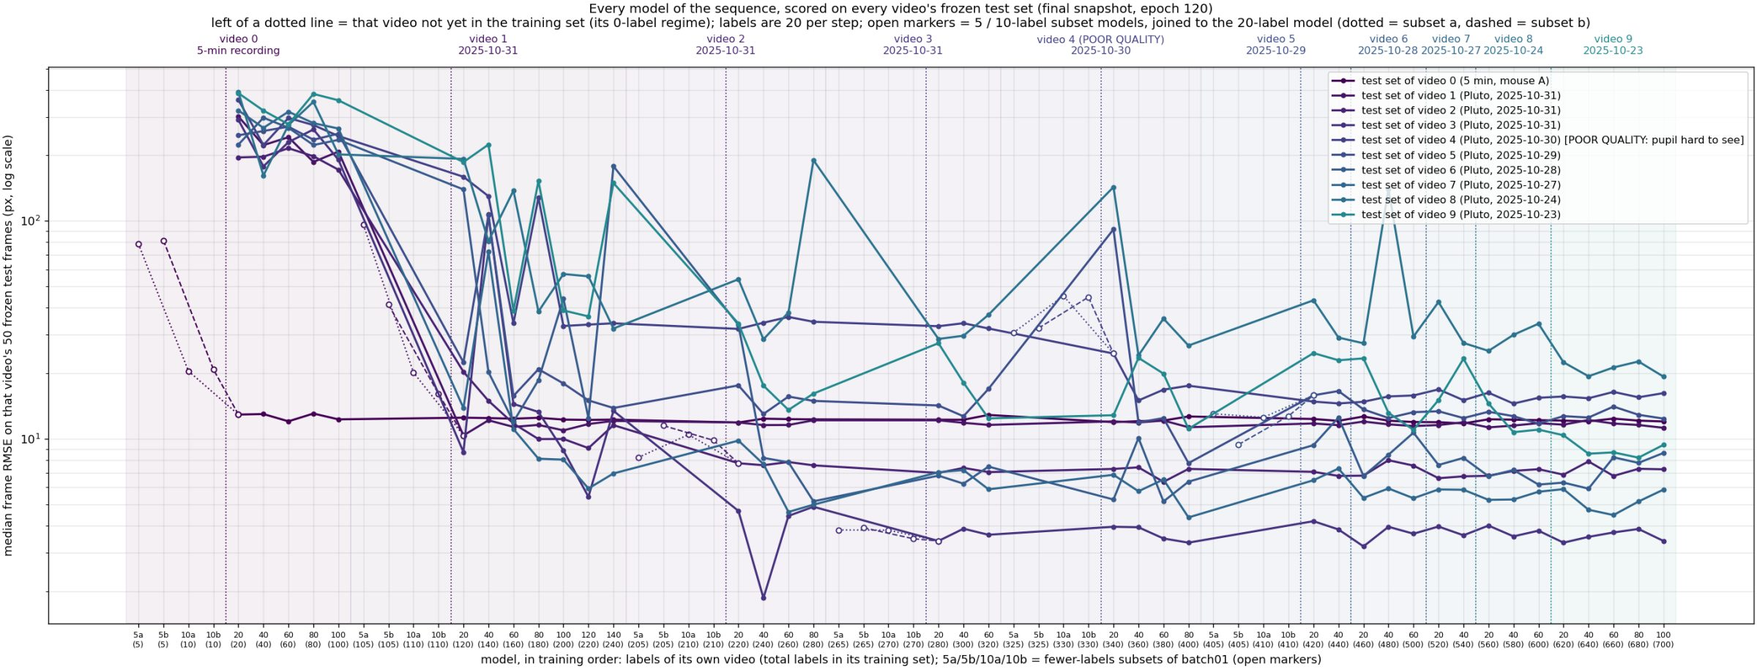
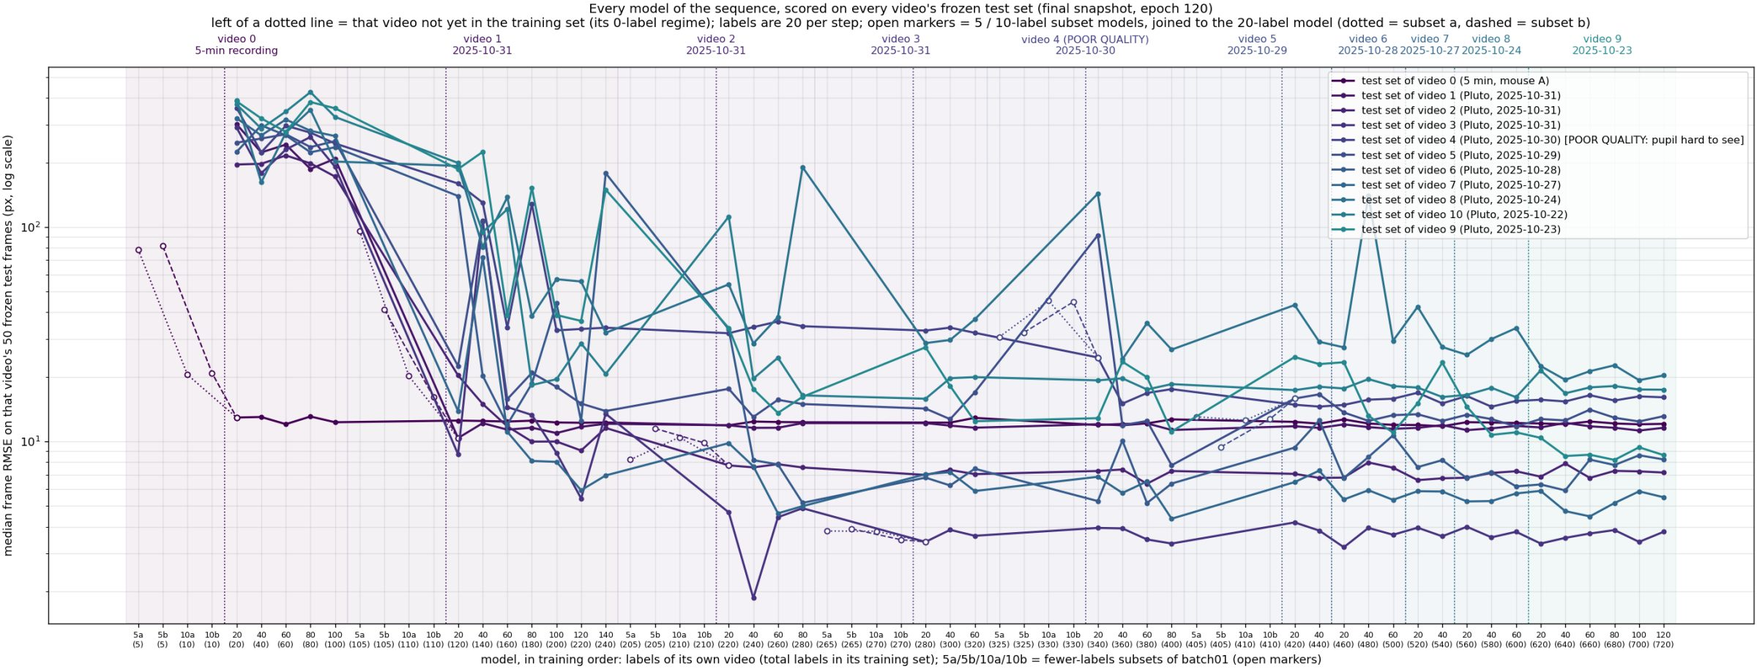
Video 10 v2 step 1: 20 labels = 11.83 px median (from 18.13 at 0 labels)
Claude-Session: https://claude.ai/code/session_017MK5SWBFFQAu8ejFk1z7fh

diff --git a/report/index.html b/report/index.html
@@ -331,7 +331,7 @@ footer{border-top:1px solid var(--rule);padding-top:18px;font-family:var(--mono)
 <section>
   <div class="sec-head"><div class="kicker">07 · <span lang="zh">新视频泛化</span><span lang="en">new-video generalization</span></div>
   <h2><span lang="zh">换一只鼠，旧模型完全失效（185 px）；标 20 帧回到 14 px，标 80 帧到 10 px</span><span lang="en">On a new mouse the old model fails outright (185 px); 20 labels bring it to 14 px, 80 labels to 10 px</span></h2></div>
-  <div class="issues"><div class="issue"><b><span lang="zh">本节是旧标注标准下的第一次新视频实验</span><span lang="en">This section is the first new-video experiment, under the old label standard</span></b><span lang="zh">训练 = 676 张旧鼠标注 + Pluto 标注。新标准下的完整实验（10 个视频）见第 09 节。</span><span lang="en">Training = 676 old-mouse labels + Pluto labels. The full experiment under the new standard (10 videos) is section 09.</span></div></div>
+  <div class="issues"><div class="issue"><b><span lang="zh">本节是旧标注标准下的第一次新视频实验</span><span lang="en">This section is the first new-video experiment, under the old label standard</span></b><span lang="zh">训练 = 676 张旧鼠标注 + Pluto 标注。新标准下的完整实验见第 09 节。</span><span lang="en">Training = 676 old-mouse labels + Pluto labels. The full experiment under the new standard is section 09.</span></div></div>
   <div class="grid2">
     <div class="panel"><h3><span lang="zh">头 20 帧解决了绝大部分问题，之后每 20 帧的收益递减</span><span lang="en">The first 20 labels do most of the work; every further 20 adds less</span></h3>
       <div class="chart" id="c-scale"></div>
@@ -480,7 +480,7 @@ CHANGELOG.md                         one row per tag
 </div>
 
 <script>
-const DATA = {"scaling": [{"n": 20, "rmse": 38.3}, {"n": 50, "rmse": 41.9}, {"n": 100, "rmse": 55.9}], "batch": [{"batch": 2, "rmse": 21.07, "val_loss": 0.01107, "conf": 375}, {"batch": 4, "rmse": 22.28, "val_loss": 0.01112, "conf": 280}, {"batch": 8, "rmse": 23.61, "val_loss": 0.01186, "conf": 131}, {"batch": 16, "rmse": 21.37, "val_loss": 0.01136, "conf": 111}], "model": [{"model": "ResNet-50", "rmse": 20.1, "val_loss": 0.01107, "conf": 514, "hours": 1.73}, {"model": "HRNet-W32", "rmse": 21.1, "val_loss": 0.01107, "conf": 375, "hours": 3.69}, {"model": "HRNet-W48", "rmse": 24.7, "val_loss": 0.01114, "conf": 99, "hours": 6.61}, {"model": "CSPNeXt-S", "rmse": 35.4, "val_loss": 0.011, "conf": 75, "hours": 0.6}, {"model": "HRNet-W18", "rmse": 47.9, "val_loss": 0.01099, "conf": 121, "hours": 2.44}], "al": {"fitting": [{"n": 80, "rmse": 16.77}, {"n": 100, "rmse": 16.52}, {"n": 120, "rmse": 17.41}, {"n": 140, "rmse": 16.88}, {"n": 160, "rmse": 17.15}, {"n": 180, "rmse": 16.89}, {"n": 200, "rmse": 17.2}, {"n": 220, "rmse": 17.08}, {"n": 240, "rmse": 17.5}, {"n": 260, "rmse": 16.85}, {"n": 280, "rmse": 16.87}, {"n": 300, "rmse": 16.97}], "jump": [{"n": 80, "rmse": 16.77}, {"n": 100, "rmse": 16.71}, {"n": 120, "rmse": 16.25}, {"n": 140, "rmse": 15.81}, {"n": 160, "rmse": 16.5}, {"n": 180, "rmse": 16.42}, {"n": 200, "rmse": 16.33}, {"n": 220, "rmse": 15.88}, {"n": 240, "rmse": 16.41}, {"n": 260, "rmse": 17.01}, {"n": 280, "rmse": 16.5}, {"n": 300, "rmse": 16.6}], "uncertain": [{"n": 80, "rmse": 16.77}, {"n": 100, "rmse": 17.54}, {"n": 120, "rmse": 17.06}, {"n": 140, "rmse": 16.71}, {"n": 160, "rmse": 16.8}, {"n": 180, "rmse": 16.39}, {"n": 200, "rmse": 16.57}, {"n": 220, "rmse": 16.57}, {"n": 240, "rmse": 16.56}, {"n": 260, "rmse": 16.54}, {"n": 280, "rmse": 16.91}, {"n": 300, "rmse": 16.62}]}, "al_range": [15.81, 17.54], "scale": [{"n": 0, "rmse": 185.18, "p90": 249.81, "fail": 88.1, "conf": 43}, {"n": 20, "rmse": 13.83, "p90": 44.6, "fail": 10.2, "conf": 62}, {"n": 40, "rmse": 12.04, "p90": 27.58, "fail": 8.5, "conf": 70}, {"n": 60, "rmse": 10.41, "p90": 97.56, "fail": 13.6, "conf": 83}, {"n": 80, "rmse": 10.12, "p90": 28.18, "fail": 5.1, "conf": 91}, {"n": 100, "rmse": 10.72, "p90": 26.06, "fail": 6.8, "conf": 87}], "scale_seed2": [{"n": 20, "rmse": 11.67, "p90": 26.32}, {"n": 40, "rmse": 11.79, "p90": 93.47}, {"n": 60, "rmse": 10.53, "p90": 46.33}], "scale_default_rule": [{"n": 20, "rmse": 12.08, "rule": "best validation mAP -> epoch 70"}, {"n": 40, "rmse": 101.74, "rule": "best validation mAP -> epoch 20 (undertrained; pupil_left fails on 53% of test frames)"}, {"n": 60, "rmse": 12.53, "rule": "best validation mAP (best-30)"}, {"n": 80, "rmse": 10.56, "rule": "best validation mAP -> epoch 50 (best-50)"}], "flagged": [{"n": 0, "pct": 77.8, "frames": 44484}, {"n": 20, "pct": 26.4, "frames": 15064}, {"n": 40, "pct": 21.4, "frames": 12254}, {"n": 60, "pct": 19.3, "frames": 11051}, {"n": 80, "pct": 15.0, "frames": 8555}], "n_test": 59, "blink_example": {"t": [231.9, 231.917, 231.933, 231.95, 231.967, 231.983, 232.0, 232.017, 232.033, 232.05, 232.067, 232.083, 232.1, 232.117, 232.133, 232.15, 232.167, 232.183, 232.2, 232.217, 232.233, 232.25, 232.267, 232.283, 232.3, 232.317, 232.333, 232.35, 232.367, 232.383, 232.4, 232.417, 232.433, 232.45, 232.467, 232.483, 232.5, 232.517, 232.533, 232.55, 232.567, 232.583, 232.6, 232.617, 232.633, 232.65, 232.667, 232.683, 232.7, 232.717, 232.733, 232.75, 232.767, 232.783, 232.8, 232.817, 232.833, 232.85, 232.867, 232.883, 232.9, 232.917, 232.933, 232.95, 232.967, 232.983, 233.0, 233.017, 233.033, 233.05, 233.067, 233.083, 233.1, 233.117, 233.133, 233.15, 233.167, 233.183, 233.2, 233.217, 233.233, 233.25, 233.267, 233.283, 233.3, 233.317, 233.333, 233.35, 233.367, 233.383, 233.4, 233.417, 233.433, 233.45, 233.467, 233.483, 233.5, 233.517, 233.533, 233.55, 233.567, 233.583, 233.6, 233.617, 233.633, 233.65, 233.667, 233.683, 233.7, 233.717, 233.733, 233.75, 233.767, 233.783, 233.8, 233.817, 233.833, 233.85, 233.867, 233.883, 233.9, 233.917, 233.933, 233.95, 233.967, 233.983, 234.0, 234.017, 234.033, 234.05, 234.067, 234.083, 234.1, 234.117, 234.133, 234.15, 234.167, 234.183, 234.2, 234.217, 234.233, 234.25, 234.267, 234.283, 234.3, 234.317, 234.333, 234.35, 234.367, 234.383, 234.4, 234.417, 234.433, 234.45, 234.467, 234.483, 234.5, 234.517, 234.533, 234.55, 234.567, 234.583, 234.6, 234.617, 234.633, 234.65, 234.667, 234.683, 234.7, 234.717, 234.733, 234.75, 234.767, 234.783, 234.8, 234.817, 234.833, 234.85, 234.867, 234.883], "raw": [69122, 68737, 69304, 68804, 67240, 67087, 63331, 61095, 59527, 59727, 59834, 59985, 61109, 61980, 62674, 62251, 62329, 62951, 62415, 61634, 61648, 61958, 62098, 63234, 62164, 61834, 61306, 61284, 61891, 63438, 61913, 61934, 62653, 62387, 62651, 63159, 63460, 62820, 63810, 63560, 63224, 63780, 63776, 63873, 64025, 64117, 63813, 65148, 65371, 64381, 64022, 64318, 64549, 64117, 63498, 63544, 63076, 64466, 63245, 63775, 64184, 63404, 64122, 64535, 64585, 63077, 64186, 63491, 62686, 60629, 60235, 59795, 63163, 61228, 60564, 60875, 58323, 56384, 56374, 56186, 54493, 54271, 52051, 46264, 42908, 40282, 38832, 39063, 35719, 36195, 36742, 35888, 35195, 35063, 37152, 43149, 43512, 48313, 50892, 53096, 53190, 53636, 55021, 55199, 55074, 56411, 56076, 57539, 56558, 57202, 56931, 58422, 59361, 59370, 59584, 58834, 59436, 59366, 60573, 59866, 60701, 60681, 60372, 60873, 61213, 61841, 61221, 61432, 62227, 61981, 61810, 61109, 62406, 62077, 62183, 62825, 62407, 63271, 65273, 64723, 63604, 63776, 64326, 64068, 63156, 63628, 63945, 62811, 63131, 63499, 62969, 64045, 63652, 63372, 63393, 63020, 63316, 63853, 63513, 63692, 63092, 63246, 62494, 63162, 63507, 63545, 63167, 63109, 63071, 63942, 63209, 63484, 63501, 62952, 62230, 62982, 63231, 62882, 63056, 62869], "filled": [69122, 68737, 69304, 68804, 67240, 67087, 63331, 61095, 59527, 59727, 59834, 59985, 61109, 61980, 62674, 62251, 62329, 62951, 62415, 61634, 61648, 61958, 62098, 63234, 62164, 61834, 61306, 61284, 61891, 63438, 61913, 61934, 62653, 62387, 62651, 63159, 63460, 62820, 63810, 63560, 63224, 63780, 63776, 63873, 64025, 64117, 63813, 65148, 65371, 64381, 64022, 64318, 64549, 64117, 63498, 63544, 63076, 64466, 63245, 63775, 64184, 63404, 64122, 64535, 64585, 63077, 64186, 63491, 62686, 60629, 60235, 60215, 60194, 60173, 60152, 60131, 60110, 60090, 60069, 60048, 60027, 60006, 59986, 59965, 59944, 59923, 59902, 59881, 59861, 59840, 59819, 59798, 59777, 59757, 59736, 59715, 59694, 59673, 59652, 59632, 59611, 59590, 59569, 59548, 59528, 59507, 59486, 59465, 59444, 59423, 59403, 59382, 59361, 59370, 59584, 58834, 59436, 59366, 60573, 59866, 60701, 60681, 60372, 60873, 61213, 61841, 61221, 61432, 62227, 61981, 61810, 61109, 62406, 62077, 62183, 62825, 62407, 62444, 62481, 62517, 62554, 62591, 62627, 62664, 62701, 62738, 62774, 62811, 63131, 63499, 62969, 64045, 63652, 63372, 63393, 63020, 63316, 63853, 63513, 63692, 63092, 63246, 62494, 63162, 63507, 63545, 63167, 63109, 63071, 63942, 63209, 63484, 63501, 62952, 62230, 62982, 63231, 62882, 63056, 62869], "open": [0.983, 0.992, 0.997, 1.009, 1.008, 0.988, 0.991, 0.98, 0.984, 0.996, 0.989, 0.996, 1.001, 1.013, 1.017, 1.02, 1.018, 1.024, 1.019, 1.024, 1.021, 1.02, 1.022, 1.013, 1.012, 1.014, 1.004, 1.01, 1.015, 1.026, 1.011, 1.027, 1.027, 1.03, 1.027, 1.031, 1.036, 1.03, 1.028, 1.029, 1.031, 1.029, 1.025, 1.031, 1.031, 1.037, 1.033, 1.03, 1.034, 1.04, 1.038, 1.042, 1.036, 1.035, 1.031, 1.033, 1.029, 1.037, 1.027, 1.03, 1.022, 1.032, 1.032, 1.029, 1.011, 1.003, 0.999, 1.002, 0.998, 0.986, 0.98, 0.979, 0.97, 0.969, 0.947, 0.936, 0.911, 0.928, 0.931, 0.927, 0.92, 0.916, 0.871, 0.839, 0.819, 0.792, 0.751, 0.752, 0.738, 0.76, 0.779, 0.677, 0.661, 0.673, 0.667, 0.706, 0.756, 0.787, 0.919, 0.89, 0.907, 0.917, 0.92, 0.929, 0.93, 0.952, 0.952, 0.95, 0.95, 0.957, 0.958, 0.968, 0.967, 0.968, 0.966, 0.972, 0.967, 0.97, 0.985, 0.981, 0.983, 0.989, 0.99, 0.99, 0.99, 0.983, 0.994, 0.988, 0.997, 0.994, 0.996, 1.003, 0.994, 0.998, 0.996, 1.001, 0.997, 0.997, 1.0, 0.999, 1.001, 0.99, 0.997, 1.009, 0.997, 1.007, 0.998, 1.004, 1.004, 0.997, 1.008, 0.999, 1.0, 0.998, 0.998, 0.999, 1.0, 1.001, 1.0, 1.004, 0.999, 0.995, 0.999, 0.996, 1.0, 1.001, 1.0, 0.997, 1.003, 0.994, 0.999, 1.001, 1.003, 1.002, 0.999, 0.999, 0.999, 1.001, 1.001, 0.999], "bad": [false, false, false, false, false, false, false, false, false, false, false, false, false, false, false, false, false, false, false, false, false, false, false, false, false, false, false, false, false, false, false, false, false, false, false, false, false, false, false, false, false, false, false, false, false, false, false, false, false, false, false, false, false, false, false, false, false, false, false, false, false, false, false, false, false, false, false, false, false, false, false, true, true, true, true, true, true, true, true, true, true, true, true, true, true, true, true, true, true, true, true, true, true, true, true, true, true, true, true, true, true, true, true, true, true, true, true, true, true, true, true, true, false, false, false, false, false, false, false, false, false, false, false, false, false, false, false, false, false, false, false, false, false, false, false, false, false, true, true, true, true, true, true, true, true, true, true, false, false, false, false, false, false, false, false, false, false, false, false, false, false, false, false, false, false, false, false, false, false, false, false, false, false, false, false, false, false, false, false, false]}, "blink_stats": {"frames": 14400, "untrusted": 1287, "runs": 86, "longest_s": 0.9}, "keypoints_px": {"pupil_top": [51.4, 27.7], "pupil_bottom": [52.5, 71.6], "pupil_left": [29.4, 40.1], "pupil_right": [74.2, 44.9], "eyelid_top": [52.2, 21.7], "eyelid_bottom": [52.5, 78.5], "eye_nasal_corner": [21.5, 35.3], "eye_temporal_corner": [79.4, 45.1]}, "blink_strip_t": [232.77, 233.43, 234.18], "videos": [{"video": 0, "unit": "0_first5minvedio", "mouse": "mouse A", "date": "5-min", "final": true, "plateau_n": 60, "plateau_px": 12.04, "zero": null, "steps": [{"n": 20, "rmse": 12.93, "p90": 23.9, "fail": 4, "conf": 69}, {"n": 40, "rmse": 13.0, "p90": 18.6, "fail": 2, "conf": 81}, {"n": 60, "rmse": 12.04, "p90": 17.0, "fail": 0, "conf": 89}, {"n": 80, "rmse": 13.07, "p90": 19.2, "fail": 2, "conf": 90}, {"n": 100, "rmse": 12.29, "p90": 17.8, "fail": 0, "conf": 93}], "subsets": [{"n": 5, "rmse": 78.53, "p90": 273.8, "fail": 70, "conf": 13, "tag": "05a"}, {"n": 5, "rmse": 81.5, "p90": 144.6, "fail": 72, "conf": 16, "tag": "05b"}, {"n": 10, "rmse": 20.48, "p90": 189.9, "fail": 14, "conf": 44, "tag": "10a"}, {"n": 10, "rmse": 20.84, "p90": 47.1, "fail": 8, "conf": 43, "tag": "10b"}], "jump": [{"n": 20, "pct": 6.8}, {"n": 40, "pct": 3.5}, {"n": 60, "pct": 2.1}, {"n": 80, "pct": 2.8}, {"n": 100, "pct": 2.1}], "labeled": 100, "carried": 100}, {"video": 1, "unit": "1_20251031_Pluto_spont_1", "mouse": "Pluto", "date": "2025-10-31", "final": true, "plateau_n": 20, "plateau_px": 10.37, "zero": 208.23, "steps": [{"n": 20, "rmse": 10.37, "p90": 21.6, "fail": 4, "conf": 59}, {"n": 40, "rmse": 12.17, "p90": 20.3, "fail": 0, "conf": 75}, {"n": 60, "rmse": 11.35, "p90": 19.7, "fail": 2, "conf": 74}, {"n": 80, "rmse": 11.59, "p90": 19.8, "fail": 0, "conf": 82}, {"n": 100, "rmse": 10.94, "p90": 19.3, "fail": 0, "conf": 89}, {"n": 120, "rmse": 11.7, "p90": 18.4, "fail": 0, "conf": 95}, {"n": 140, "rmse": 12.09, "p90": 18.7, "fail": 0, "conf": 89}], "subsets": [{"n": 5, "rmse": 96.02, "p90": 123.4, "fail": 56, "conf": 34, "tag": "05a"}, {"n": 5, "rmse": 41.38, "p90": 221.9, "fail": 48, "conf": 15, "tag": "05b"}, {"n": 10, "rmse": 20.17, "p90": 123.5, "fail": 42, "conf": 67, "tag": "10a"}, {"n": 10, "rmse": 16.12, "p90": 168.5, "fail": 34, "conf": 39, "tag": "10b"}], "jump": [{"n": 20, "pct": 21.1}, {"n": 40, "pct": 10.9}, {"n": 60, "pct": 6.2}, {"n": 80, "pct": 6.2}, {"n": 100, "pct": 5.5}, {"n": 120, "pct": 4.4}, {"n": 140, "pct": 4.6}], "labeled": 140, "carried": 100}, {"video": 2, "unit": "2_20251031_Pluto_spont_3", "mouse": "Pluto", "date": "2025-10-31", "final": true, "plateau_n": 20, "plateau_px": 7.73, "zero": 9.99, "steps": [{"n": 20, "rmse": 7.73, "p90": 26.4, "fail": 8, "conf": 85}, {"n": 40, "rmse": 7.57, "p90": 25.1, "fail": 2, "conf": 89}, {"n": 60, "rmse": 7.83, "p90": 22.8, "fail": 8, "conf": 90}, {"n": 80, "rmse": 7.56, "p90": 19.7, "fail": 2, "conf": 92}], "subsets": [{"n": 5, "rmse": 8.22, "p90": 48.0, "fail": 10, "conf": 80, "tag": "05a"}, {"n": 5, "rmse": 11.5, "p90": 96.6, "fail": 18, "conf": 81, "tag": "05b"}, {"n": 10, "rmse": 10.46, "p90": 85.2, "fail": 22, "conf": 84, "tag": "10a"}, {"n": 10, "rmse": 9.85, "p90": 78.4, "fail": 12, "conf": 86, "tag": "10b"}], "jump": [{"n": 20, "pct": 9.3}, {"n": 40, "pct": 5.8}, {"n": 60, "pct": 5.7}], "labeled": 80, "carried": 60}, {"video": 3, "unit": "3_20251031_Pluto_spont_2", "mouse": "Pluto", "date": "2025-10-31", "final": true, "plateau_n": 20, "plateau_px": 3.4, "zero": 4.43, "steps": [{"n": 20, "rmse": 3.4, "p90": 21.3, "fail": 0, "conf": 96}, {"n": 40, "rmse": 3.87, "p90": 15.8, "fail": 0, "conf": 95}, {"n": 60, "rmse": 3.63, "p90": 10.2, "fail": 0, "conf": 96}], "subsets": [{"n": 5, "rmse": 3.82, "p90": 22.9, "fail": 0, "conf": 94, "tag": "05a"}, {"n": 5, "rmse": 3.91, "p90": 15.3, "fail": 0, "conf": 92, "tag": "05b"}, {"n": 10, "rmse": 3.81, "p90": 21.7, "fail": 0, "conf": 94, "tag": "10a"}, {"n": 10, "rmse": 3.48, "p90": 22.5, "fail": 0, "conf": 92, "tag": "10b"}], "jump": [{"n": 20, "pct": 6.4}, {"n": 40, "pct": 5.8}, {"n": 60, "pct": 6.8}], "labeled": 60, "carried": 60}, {"video": 4, "unit": "4_20251030_Pluto_spont_1", "mouse": "Pluto", "date": "2025-10-30", "final": true, "plateau_n": 40, "plateau_px": 15.01, "zero": 32.11, "steps": [{"n": 20, "rmse": 24.64, "p90": 45.1, "fail": 6, "conf": 72}, {"n": 40, "rmse": 15.01, "p90": 24.1, "fail": 2, "conf": 90}, {"n": 60, "rmse": 16.82, "p90": 25.1, "fail": 2, "conf": 79}, {"n": 80, "rmse": 17.54, "p90": 44.7, "fail": 8, "conf": 86}], "subsets": [{"n": 5, "rmse": 30.74, "p90": 50.1, "fail": 10, "conf": 85, "tag": "05a"}, {"n": 5, "rmse": 32.21, "p90": 52.0, "fail": 14, "conf": 83, "tag": "05b"}, {"n": 10, "rmse": 45.31, "p90": 62.4, "fail": 42, "conf": 81, "tag": "10a"}, {"n": 10, "rmse": 44.75, "p90": 61.5, "fail": 32, "conf": 80, "tag": "10b"}], "jump": [{"n": 20, "pct": 30.9}, {"n": 40, "pct": 12.5}, {"n": 60, "pct": 14.1}], "labeled": 80, "carried": 40}, {"video": 5, "unit": "5_20251029_Pluto_spont_1", "mouse": "Pluto", "date": "2025-10-29", "final": true, "plateau_n": 20, "plateau_px": 15.85, "zero": 11.9, "steps": [{"n": 20, "rmse": 15.85, "p90": 20.2, "fail": 0, "conf": 90}, {"n": 40, "rmse": 16.58, "p90": 22.0, "fail": 0, "conf": 91}], "subsets": [{"n": 5, "rmse": 13.04, "p90": 19.9, "fail": 0, "conf": 79, "tag": "05a"}, {"n": 5, "rmse": 9.42, "p90": 13.2, "fail": 4, "conf": 78, "tag": "05b"}, {"n": 10, "rmse": 12.56, "p90": 18.1, "fail": 0, "conf": 90, "tag": "10a"}, {"n": 10, "rmse": 12.73, "p90": 19.6, "fail": 4, "conf": 80, "tag": "10b"}], "jump": [{"n": 20, "pct": 7.6}], "labeled": 40, "carried": 20}, {"video": 6, "unit": "6_20251028_Pluto_spont_1", "mouse": "Pluto", "date": "2025-10-28", "final": true, "plateau_n": 20, "plateau_px": 6.75, "zero": 9.36, "steps": [{"n": 20, "rmse": 6.75, "p90": 11.2, "fail": 0, "conf": 83}, {"n": 40, "rmse": 8.46, "p90": 11.8, "fail": 0, "conf": 90}, {"n": 60, "rmse": 10.68, "p90": 14.9, "fail": 2, "conf": 82}], "subsets": [], "jump": [{"n": 20, "pct": 11.9}, {"n": 40, "pct": 8.7}], "labeled": 60, "carried": 20}, {"video": 7, "unit": "7_20251027_Pluto_spont1", "mouse": "Pluto", "date": "2025-10-27", "final": true, "plateau_n": 0, "plateau_px": 5.36, "zero": 5.36, "steps": [{"n": 20, "rmse": 5.86, "p90": 7.6, "fail": 0, "conf": 100}, {"n": 40, "rmse": 5.84, "p90": 8.2, "fail": 0, "conf": 100}], "subsets": [], "jump": [{"n": 20, "pct": 1.6}], "labeled": 40, "carried": 0}, {"video": 8, "unit": "8_20251024_Pluto_spont1", "mouse": "Pluto", "date": "2025-10-24", "final": true, "plateau_n": 20, "plateau_px": 25.34, "zero": 27.46, "steps": [{"n": 20, "rmse": 25.34, "p90": 50.6, "fail": 14, "conf": 68}, {"n": 40, "rmse": 30.03, "p90": 50.4, "fail": 12, "conf": 89}, {"n": 60, "rmse": 33.77, "p90": 52.0, "fail": 16, "conf": 84}], "subsets": [], "jump": [{"n": 20, "pct": 17.0}, {"n": 40, "pct": 15.3}], "labeled": 60, "carried": 20}, {"video": 9, "unit": "9_20251023_Pluto1", "mouse": "Pluto", "date": "2025-10-23", "final": true, "plateau_n": 80, "plateau_px": 8.2, "zero": 23.41, "steps": [{"n": 20, "rmse": 10.39, "p90": 24.3, "fail": 8, "conf": 55}, {"n": 40, "rmse": 8.55, "p90": 19.6, "fail": 0, "conf": 86}, {"n": 60, "rmse": 8.67, "p90": 14.8, "fail": 0, "conf": 78}, {"n": 80, "rmse": 8.2, "p90": 14.8, "fail": 0, "conf": 86}, {"n": 100, "rmse": 9.39, "p90": 15.5, "fail": 0, "conf": 83}, {"n": 120, "rmse": 8.63, "p90": 15.8, "fail": 0, "conf": 90}], "subsets": [], "jump": [{"n": 20, "pct": 18.1}, {"n": 40, "pct": 11.3}, {"n": 60, "pct": 10.1}, {"n": 80, "pct": 10.7}, {"n": 100, "pct": 9.1}], "labeled": 120, "carried": 80}], "area": [{"video": "0 (mouse A)", "e3": 6.5, "e4": 2.2, "anchored": false}, {"video": "1 (10-31)", "e3": 6.7, "e4": 6.2, "anchored": false}, {"video": "2 (10-31)", "e3": 3.1, "e4": 4.4, "anchored": false}, {"video": "3 (10-31)", "e3": 12.8, "e4": 3.2, "anchored": false}, {"video": "4 (10-30, poor)", "e3": 16.9, "e4": 13.5, "anchored": false}, {"video": "5 (10-29)", "e3": 2.5, "e4": 1.9, "anchored": true}, {"video": "6 (10-28)", "e3": 9.9, "e4": 1.6, "anchored": true}, {"video": "7 (10-27)", "e3": 3.3, "e4": 0.2, "anchored": true}], "blink3": {"closed": 16, "open": 687, "auc": {"min_conf": 1.0, "open_rel": 0.94, "centre_off": 0.92, "lid_rel": 0.9, "aspect": 0.36}, "hit": 1.0, "false_alarm": 0.55}, "coupling": [0.69, 0.94], "built": "2026-10-01", "label_px": {"pupil_top": [66.7, 44.4], "pupil_bottom": [66.2, 79.4], "pupil_left": [50.1, 60.1], "pupil_right": [81.1, 63.6], "eyelid_top": [67.6, 47.1], "eyelid_bottom": [65.9, 83.7], "eye_nasal_corner": [39.4, 51.3], "eye_temporal_corner": [90.4, 65.2]}};
+const DATA = {"scaling": [{"n": 20, "rmse": 38.3}, {"n": 50, "rmse": 41.9}, {"n": 100, "rmse": 55.9}], "batch": [{"batch": 2, "rmse": 21.07, "val_loss": 0.01107, "conf": 375}, {"batch": 4, "rmse": 22.28, "val_loss": 0.01112, "conf": 280}, {"batch": 8, "rmse": 23.61, "val_loss": 0.01186, "conf": 131}, {"batch": 16, "rmse": 21.37, "val_loss": 0.01136, "conf": 111}], "model": [{"model": "ResNet-50", "rmse": 20.1, "val_loss": 0.01107, "conf": 514, "hours": 1.73}, {"model": "HRNet-W32", "rmse": 21.1, "val_loss": 0.01107, "conf": 375, "hours": 3.69}, {"model": "HRNet-W48", "rmse": 24.7, "val_loss": 0.01114, "conf": 99, "hours": 6.61}, {"model": "CSPNeXt-S", "rmse": 35.4, "val_loss": 0.011, "conf": 75, "hours": 0.6}, {"model": "HRNet-W18", "rmse": 47.9, "val_loss": 0.01099, "conf": 121, "hours": 2.44}], "al": {"fitting": [{"n": 80, "rmse": 16.77}, {"n": 100, "rmse": 16.52}, {"n": 120, "rmse": 17.41}, {"n": 140, "rmse": 16.88}, {"n": 160, "rmse": 17.15}, {"n": 180, "rmse": 16.89}, {"n": 200, "rmse": 17.2}, {"n": 220, "rmse": 17.08}, {"n": 240, "rmse": 17.5}, {"n": 260, "rmse": 16.85}, {"n": 280, "rmse": 16.87}, {"n": 300, "rmse": 16.97}], "jump": [{"n": 80, "rmse": 16.77}, {"n": 100, "rmse": 16.71}, {"n": 120, "rmse": 16.25}, {"n": 140, "rmse": 15.81}, {"n": 160, "rmse": 16.5}, {"n": 180, "rmse": 16.42}, {"n": 200, "rmse": 16.33}, {"n": 220, "rmse": 15.88}, {"n": 240, "rmse": 16.41}, {"n": 260, "rmse": 17.01}, {"n": 280, "rmse": 16.5}, {"n": 300, "rmse": 16.6}], "uncertain": [{"n": 80, "rmse": 16.77}, {"n": 100, "rmse": 17.54}, {"n": 120, "rmse": 17.06}, {"n": 140, "rmse": 16.71}, {"n": 160, "rmse": 16.8}, {"n": 180, "rmse": 16.39}, {"n": 200, "rmse": 16.57}, {"n": 220, "rmse": 16.57}, {"n": 240, "rmse": 16.56}, {"n": 260, "rmse": 16.54}, {"n": 280, "rmse": 16.91}, {"n": 300, "rmse": 16.62}]}, "al_range": [15.81, 17.54], "scale": [{"n": 0, "rmse": 185.18, "p90": 249.81, "fail": 88.1, "conf": 43}, {"n": 20, "rmse": 13.83, "p90": 44.6, "fail": 10.2, "conf": 62}, {"n": 40, "rmse": 12.04, "p90": 27.58, "fail": 8.5, "conf": 70}, {"n": 60, "rmse": 10.41, "p90": 97.56, "fail": 13.6, "conf": 83}, {"n": 80, "rmse": 10.12, "p90": 28.18, "fail": 5.1, "conf": 91}, {"n": 100, "rmse": 10.72, "p90": 26.06, "fail": 6.8, "conf": 87}], "scale_seed2": [{"n": 20, "rmse": 11.67, "p90": 26.32}, {"n": 40, "rmse": 11.79, "p90": 93.47}, {"n": 60, "rmse": 10.53, "p90": 46.33}], "scale_default_rule": [{"n": 20, "rmse": 12.08, "rule": "best validation mAP -> epoch 70"}, {"n": 40, "rmse": 101.74, "rule": "best validation mAP -> epoch 20 (undertrained; pupil_left fails on 53% of test frames)"}, {"n": 60, "rmse": 12.53, "rule": "best validation mAP (best-30)"}, {"n": 80, "rmse": 10.56, "rule": "best validation mAP -> epoch 50 (best-50)"}], "flagged": [{"n": 0, "pct": 77.8, "frames": 44484}, {"n": 20, "pct": 26.4, "frames": 15064}, {"n": 40, "pct": 21.4, "frames": 12254}, {"n": 60, "pct": 19.3, "frames": 11051}, {"n": 80, "pct": 15.0, "frames": 8555}], "n_test": 59, "blink_example": {"t": [231.9, 231.917, 231.933, 231.95, 231.967, 231.983, 232.0, 232.017, 232.033, 232.05, 232.067, 232.083, 232.1, 232.117, 232.133, 232.15, 232.167, 232.183, 232.2, 232.217, 232.233, 232.25, 232.267, 232.283, 232.3, 232.317, 232.333, 232.35, 232.367, 232.383, 232.4, 232.417, 232.433, 232.45, 232.467, 232.483, 232.5, 232.517, 232.533, 232.55, 232.567, 232.583, 232.6, 232.617, 232.633, 232.65, 232.667, 232.683, 232.7, 232.717, 232.733, 232.75, 232.767, 232.783, 232.8, 232.817, 232.833, 232.85, 232.867, 232.883, 232.9, 232.917, 232.933, 232.95, 232.967, 232.983, 233.0, 233.017, 233.033, 233.05, 233.067, 233.083, 233.1, 233.117, 233.133, 233.15, 233.167, 233.183, 233.2, 233.217, 233.233, 233.25, 233.267, 233.283, 233.3, 233.317, 233.333, 233.35, 233.367, 233.383, 233.4, 233.417, 233.433, 233.45, 233.467, 233.483, 233.5, 233.517, 233.533, 233.55, 233.567, 233.583, 233.6, 233.617, 233.633, 233.65, 233.667, 233.683, 233.7, 233.717, 233.733, 233.75, 233.767, 233.783, 233.8, 233.817, 233.833, 233.85, 233.867, 233.883, 233.9, 233.917, 233.933, 233.95, 233.967, 233.983, 234.0, 234.017, 234.033, 234.05, 234.067, 234.083, 234.1, 234.117, 234.133, 234.15, 234.167, 234.183, 234.2, 234.217, 234.233, 234.25, 234.267, 234.283, 234.3, 234.317, 234.333, 234.35, 234.367, 234.383, 234.4, 234.417, 234.433, 234.45, 234.467, 234.483, 234.5, 234.517, 234.533, 234.55, 234.567, 234.583, 234.6, 234.617, 234.633, 234.65, 234.667, 234.683, 234.7, 234.717, 234.733, 234.75, 234.767, 234.783, 234.8, 234.817, 234.833, 234.85, 234.867, 234.883], "raw": [69122, 68737, 69304, 68804, 67240, 67087, 63331, 61095, 59527, 59727, 59834, 59985, 61109, 61980, 62674, 62251, 62329, 62951, 62415, 61634, 61648, 61958, 62098, 63234, 62164, 61834, 61306, 61284, 61891, 63438, 61913, 61934, 62653, 62387, 62651, 63159, 63460, 62820, 63810, 63560, 63224, 63780, 63776, 63873, 64025, 64117, 63813, 65148, 65371, 64381, 64022, 64318, 64549, 64117, 63498, 63544, 63076, 64466, 63245, 63775, 64184, 63404, 64122, 64535, 64585, 63077, 64186, 63491, 62686, 60629, 60235, 59795, 63163, 61228, 60564, 60875, 58323, 56384, 56374, 56186, 54493, 54271, 52051, 46264, 42908, 40282, 38832, 39063, 35719, 36195, 36742, 35888, 35195, 35063, 37152, 43149, 43512, 48313, 50892, 53096, 53190, 53636, 55021, 55199, 55074, 56411, 56076, 57539, 56558, 57202, 56931, 58422, 59361, 59370, 59584, 58834, 59436, 59366, 60573, 59866, 60701, 60681, 60372, 60873, 61213, 61841, 61221, 61432, 62227, 61981, 61810, 61109, 62406, 62077, 62183, 62825, 62407, 63271, 65273, 64723, 63604, 63776, 64326, 64068, 63156, 63628, 63945, 62811, 63131, 63499, 62969, 64045, 63652, 63372, 63393, 63020, 63316, 63853, 63513, 63692, 63092, 63246, 62494, 63162, 63507, 63545, 63167, 63109, 63071, 63942, 63209, 63484, 63501, 62952, 62230, 62982, 63231, 62882, 63056, 62869], "filled": [69122, 68737, 69304, 68804, 67240, 67087, 63331, 61095, 59527, 59727, 59834, 59985, 61109, 61980, 62674, 62251, 62329, 62951, 62415, 61634, 61648, 61958, 62098, 63234, 62164, 61834, 61306, 61284, 61891, 63438, 61913, 61934, 62653, 62387, 62651, 63159, 63460, 62820, 63810, 63560, 63224, 63780, 63776, 63873, 64025, 64117, 63813, 65148, 65371, 64381, 64022, 64318, 64549, 64117, 63498, 63544, 63076, 64466, 63245, 63775, 64184, 63404, 64122, 64535, 64585, 63077, 64186, 63491, 62686, 60629, 60235, 60215, 60194, 60173, 60152, 60131, 60110, 60090, 60069, 60048, 60027, 60006, 59986, 59965, 59944, 59923, 59902, 59881, 59861, 59840, 59819, 59798, 59777, 59757, 59736, 59715, 59694, 59673, 59652, 59632, 59611, 59590, 59569, 59548, 59528, 59507, 59486, 59465, 59444, 59423, 59403, 59382, 59361, 59370, 59584, 58834, 59436, 59366, 60573, 59866, 60701, 60681, 60372, 60873, 61213, 61841, 61221, 61432, 62227, 61981, 61810, 61109, 62406, 62077, 62183, 62825, 62407, 62444, 62481, 62517, 62554, 62591, 62627, 62664, 62701, 62738, 62774, 62811, 63131, 63499, 62969, 64045, 63652, 63372, 63393, 63020, 63316, 63853, 63513, 63692, 63092, 63246, 62494, 63162, 63507, 63545, 63167, 63109, 63071, 63942, 63209, 63484, 63501, 62952, 62230, 62982, 63231, 62882, 63056, 62869], "open": [0.983, 0.992, 0.997, 1.009, 1.008, 0.988, 0.991, 0.98, 0.984, 0.996, 0.989, 0.996, 1.001, 1.013, 1.017, 1.02, 1.018, 1.024, 1.019, 1.024, 1.021, 1.02, 1.022, 1.013, 1.012, 1.014, 1.004, 1.01, 1.015, 1.026, 1.011, 1.027, 1.027, 1.03, 1.027, 1.031, 1.036, 1.03, 1.028, 1.029, 1.031, 1.029, 1.025, 1.031, 1.031, 1.037, 1.033, 1.03, 1.034, 1.04, 1.038, 1.042, 1.036, 1.035, 1.031, 1.033, 1.029, 1.037, 1.027, 1.03, 1.022, 1.032, 1.032, 1.029, 1.011, 1.003, 0.999, 1.002, 0.998, 0.986, 0.98, 0.979, 0.97, 0.969, 0.947, 0.936, 0.911, 0.928, 0.931, 0.927, 0.92, 0.916, 0.871, 0.839, 0.819, 0.792, 0.751, 0.752, 0.738, 0.76, 0.779, 0.677, 0.661, 0.673, 0.667, 0.706, 0.756, 0.787, 0.919, 0.89, 0.907, 0.917, 0.92, 0.929, 0.93, 0.952, 0.952, 0.95, 0.95, 0.957, 0.958, 0.968, 0.967, 0.968, 0.966, 0.972, 0.967, 0.97, 0.985, 0.981, 0.983, 0.989, 0.99, 0.99, 0.99, 0.983, 0.994, 0.988, 0.997, 0.994, 0.996, 1.003, 0.994, 0.998, 0.996, 1.001, 0.997, 0.997, 1.0, 0.999, 1.001, 0.99, 0.997, 1.009, 0.997, 1.007, 0.998, 1.004, 1.004, 0.997, 1.008, 0.999, 1.0, 0.998, 0.998, 0.999, 1.0, 1.001, 1.0, 1.004, 0.999, 0.995, 0.999, 0.996, 1.0, 1.001, 1.0, 0.997, 1.003, 0.994, 0.999, 1.001, 1.003, 1.002, 0.999, 0.999, 0.999, 1.001, 1.001, 0.999], "bad": [false, false, false, false, false, false, false, false, false, false, false, false, false, false, false, false, false, false, false, false, false, false, false, false, false, false, false, false, false, false, false, false, false, false, false, false, false, false, false, false, false, false, false, false, false, false, false, false, false, false, false, false, false, false, false, false, false, false, false, false, false, false, false, false, false, false, false, false, false, false, false, true, true, true, true, true, true, true, true, true, true, true, true, true, true, true, true, true, true, true, true, true, true, true, true, true, true, true, true, true, true, true, true, true, true, true, true, true, true, true, true, true, false, false, false, false, false, false, false, false, false, false, false, false, false, false, false, false, false, false, false, false, false, false, false, false, false, true, true, true, true, true, true, true, true, true, true, false, false, false, false, false, false, false, false, false, false, false, false, false, false, false, false, false, false, false, false, false, false, false, false, false, false, false, false, false, false, false, false, false]}, "blink_stats": {"frames": 14400, "untrusted": 1287, "runs": 86, "longest_s": 0.9}, "keypoints_px": {"pupil_top": [51.4, 27.7], "pupil_bottom": [52.5, 71.6], "pupil_left": [29.4, 40.1], "pupil_right": [74.2, 44.9], "eyelid_top": [52.2, 21.7], "eyelid_bottom": [52.5, 78.5], "eye_nasal_corner": [21.5, 35.3], "eye_temporal_corner": [79.4, 45.1]}, "blink_strip_t": [232.77, 233.43, 234.18], "videos": [{"video": 0, "unit": "0_first5minvedio", "mouse": "mouse A", "date": "5-min", "final": true, "plateau_n": 60, "plateau_px": 12.04, "zero": null, "steps": [{"n": 20, "rmse": 12.93, "p90": 23.9, "fail": 4, "conf": 69}, {"n": 40, "rmse": 13.0, "p90": 18.6, "fail": 2, "conf": 81}, {"n": 60, "rmse": 12.04, "p90": 17.0, "fail": 0, "conf": 89}, {"n": 80, "rmse": 13.07, "p90": 19.2, "fail": 2, "conf": 90}, {"n": 100, "rmse": 12.29, "p90": 17.8, "fail": 0, "conf": 93}], "subsets": [{"n": 5, "rmse": 78.53, "p90": 273.8, "fail": 70, "conf": 13, "tag": "05a"}, {"n": 5, "rmse": 81.5, "p90": 144.6, "fail": 72, "conf": 16, "tag": "05b"}, {"n": 10, "rmse": 20.48, "p90": 189.9, "fail": 14, "conf": 44, "tag": "10a"}, {"n": 10, "rmse": 20.84, "p90": 47.1, "fail": 8, "conf": 43, "tag": "10b"}], "jump": [{"n": 20, "pct": 6.8}, {"n": 40, "pct": 3.5}, {"n": 60, "pct": 2.1}, {"n": 80, "pct": 2.8}, {"n": 100, "pct": 2.1}], "labeled": 100, "carried": 100}, {"video": 1, "unit": "1_20251031_Pluto_spont_1", "mouse": "Pluto", "date": "2025-10-31", "final": true, "plateau_n": 20, "plateau_px": 10.37, "zero": 208.23, "steps": [{"n": 20, "rmse": 10.37, "p90": 21.6, "fail": 4, "conf": 59}, {"n": 40, "rmse": 12.17, "p90": 20.3, "fail": 0, "conf": 75}, {"n": 60, "rmse": 11.35, "p90": 19.7, "fail": 2, "conf": 74}, {"n": 80, "rmse": 11.59, "p90": 19.8, "fail": 0, "conf": 82}, {"n": 100, "rmse": 10.94, "p90": 19.3, "fail": 0, "conf": 89}, {"n": 120, "rmse": 11.7, "p90": 18.4, "fail": 0, "conf": 95}, {"n": 140, "rmse": 12.09, "p90": 18.7, "fail": 0, "conf": 89}], "subsets": [{"n": 5, "rmse": 96.02, "p90": 123.4, "fail": 56, "conf": 34, "tag": "05a"}, {"n": 5, "rmse": 41.38, "p90": 221.9, "fail": 48, "conf": 15, "tag": "05b"}, {"n": 10, "rmse": 20.17, "p90": 123.5, "fail": 42, "conf": 67, "tag": "10a"}, {"n": 10, "rmse": 16.12, "p90": 168.5, "fail": 34, "conf": 39, "tag": "10b"}], "jump": [{"n": 20, "pct": 21.1}, {"n": 40, "pct": 10.9}, {"n": 60, "pct": 6.2}, {"n": 80, "pct": 6.2}, {"n": 100, "pct": 5.5}, {"n": 120, "pct": 4.4}, {"n": 140, "pct": 4.6}], "labeled": 140, "carried": 100}, {"video": 2, "unit": "2_20251031_Pluto_spont_3", "mouse": "Pluto", "date": "2025-10-31", "final": true, "plateau_n": 20, "plateau_px": 7.73, "zero": 9.99, "steps": [{"n": 20, "rmse": 7.73, "p90": 26.4, "fail": 8, "conf": 85}, {"n": 40, "rmse": 7.57, "p90": 25.1, "fail": 2, "conf": 89}, {"n": 60, "rmse": 7.83, "p90": 22.8, "fail": 8, "conf": 90}, {"n": 80, "rmse": 7.56, "p90": 19.7, "fail": 2, "conf": 92}], "subsets": [{"n": 5, "rmse": 8.22, "p90": 48.0, "fail": 10, "conf": 80, "tag": "05a"}, {"n": 5, "rmse": 11.5, "p90": 96.6, "fail": 18, "conf": 81, "tag": "05b"}, {"n": 10, "rmse": 10.46, "p90": 85.2, "fail": 22, "conf": 84, "tag": "10a"}, {"n": 10, "rmse": 9.85, "p90": 78.4, "fail": 12, "conf": 86, "tag": "10b"}], "jump": [{"n": 20, "pct": 9.3}, {"n": 40, "pct": 5.8}, {"n": 60, "pct": 5.7}], "labeled": 80, "carried": 60}, {"video": 3, "unit": "3_20251031_Pluto_spont_2", "mouse": "Pluto", "date": "2025-10-31", "final": true, "plateau_n": 20, "plateau_px": 3.4, "zero": 4.43, "steps": [{"n": 20, "rmse": 3.4, "p90": 21.3, "fail": 0, "conf": 96}, {"n": 40, "rmse": 3.87, "p90": 15.8, "fail": 0, "conf": 95}, {"n": 60, "rmse": 3.63, "p90": 10.2, "fail": 0, "conf": 96}], "subsets": [{"n": 5, "rmse": 3.82, "p90": 22.9, "fail": 0, "conf": 94, "tag": "05a"}, {"n": 5, "rmse": 3.91, "p90": 15.3, "fail": 0, "conf": 92, "tag": "05b"}, {"n": 10, "rmse": 3.81, "p90": 21.7, "fail": 0, "conf": 94, "tag": "10a"}, {"n": 10, "rmse": 3.48, "p90": 22.5, "fail": 0, "conf": 92, "tag": "10b"}], "jump": [{"n": 20, "pct": 6.4}, {"n": 40, "pct": 5.8}, {"n": 60, "pct": 6.8}], "labeled": 60, "carried": 60}, {"video": 4, "unit": "4_20251030_Pluto_spont_1", "mouse": "Pluto", "date": "2025-10-30", "final": true, "plateau_n": 40, "plateau_px": 15.01, "zero": 32.11, "steps": [{"n": 20, "rmse": 24.64, "p90": 45.1, "fail": 6, "conf": 72}, {"n": 40, "rmse": 15.01, "p90": 24.1, "fail": 2, "conf": 90}, {"n": 60, "rmse": 16.82, "p90": 25.1, "fail": 2, "conf": 79}, {"n": 80, "rmse": 17.54, "p90": 44.7, "fail": 8, "conf": 86}], "subsets": [{"n": 5, "rmse": 30.74, "p90": 50.1, "fail": 10, "conf": 85, "tag": "05a"}, {"n": 5, "rmse": 32.21, "p90": 52.0, "fail": 14, "conf": 83, "tag": "05b"}, {"n": 10, "rmse": 45.31, "p90": 62.4, "fail": 42, "conf": 81, "tag": "10a"}, {"n": 10, "rmse": 44.75, "p90": 61.5, "fail": 32, "conf": 80, "tag": "10b"}], "jump": [{"n": 20, "pct": 30.9}, {"n": 40, "pct": 12.5}, {"n": 60, "pct": 14.1}], "labeled": 80, "carried": 40}, {"video": 5, "unit": "5_20251029_Pluto_spont_1", "mouse": "Pluto", "date": "2025-10-29", "final": true, "plateau_n": 20, "plateau_px": 15.85, "zero": 11.9, "steps": [{"n": 20, "rmse": 15.85, "p90": 20.2, "fail": 0, "conf": 90}, {"n": 40, "rmse": 16.58, "p90": 22.0, "fail": 0, "conf": 91}], "subsets": [{"n": 5, "rmse": 13.04, "p90": 19.9, "fail": 0, "conf": 79, "tag": "05a"}, {"n": 5, "rmse": 9.42, "p90": 13.2, "fail": 4, "conf": 78, "tag": "05b"}, {"n": 10, "rmse": 12.56, "p90": 18.1, "fail": 0, "conf": 90, "tag": "10a"}, {"n": 10, "rmse": 12.73, "p90": 19.6, "fail": 4, "conf": 80, "tag": "10b"}], "jump": [{"n": 20, "pct": 7.6}], "labeled": 40, "carried": 20}, {"video": 6, "unit": "6_20251028_Pluto_spont_1", "mouse": "Pluto", "date": "2025-10-28", "final": true, "plateau_n": 20, "plateau_px": 6.75, "zero": 9.36, "steps": [{"n": 20, "rmse": 6.75, "p90": 11.2, "fail": 0, "conf": 83}, {"n": 40, "rmse": 8.46, "p90": 11.8, "fail": 0, "conf": 90}, {"n": 60, "rmse": 10.68, "p90": 14.9, "fail": 2, "conf": 82}], "subsets": [], "jump": [{"n": 20, "pct": 11.9}, {"n": 40, "pct": 8.7}], "labeled": 60, "carried": 20}, {"video": 7, "unit": "7_20251027_Pluto_spont1", "mouse": "Pluto", "date": "2025-10-27", "final": true, "plateau_n": 0, "plateau_px": 5.36, "zero": 5.36, "steps": [{"n": 20, "rmse": 5.86, "p90": 7.6, "fail": 0, "conf": 100}, {"n": 40, "rmse": 5.84, "p90": 8.2, "fail": 0, "conf": 100}], "subsets": [], "jump": [{"n": 20, "pct": 1.6}], "labeled": 40, "carried": 0}, {"video": 8, "unit": "8_20251024_Pluto_spont1", "mouse": "Pluto", "date": "2025-10-24", "final": true, "plateau_n": 20, "plateau_px": 25.34, "zero": 27.46, "steps": [{"n": 20, "rmse": 25.34, "p90": 50.6, "fail": 14, "conf": 68}, {"n": 40, "rmse": 30.03, "p90": 50.4, "fail": 12, "conf": 89}, {"n": 60, "rmse": 33.77, "p90": 52.0, "fail": 16, "conf": 84}], "subsets": [], "jump": [{"n": 20, "pct": 17.0}, {"n": 40, "pct": 15.3}], "labeled": 60, "carried": 20}, {"video": 9, "unit": "9_20251023_Pluto1", "mouse": "Pluto", "date": "2025-10-23", "final": true, "plateau_n": 80, "plateau_px": 8.2, "zero": 23.41, "steps": [{"n": 20, "rmse": 10.39, "p90": 24.3, "fail": 8, "conf": 55}, {"n": 40, "rmse": 8.55, "p90": 19.6, "fail": 0, "conf": 86}, {"n": 60, "rmse": 8.67, "p90": 14.8, "fail": 0, "conf": 78}, {"n": 80, "rmse": 8.2, "p90": 14.8, "fail": 0, "conf": 86}, {"n": 100, "rmse": 9.39, "p90": 15.5, "fail": 0, "conf": 83}, {"n": 120, "rmse": 8.63, "p90": 15.8, "fail": 0, "conf": 90}], "subsets": [], "jump": [{"n": 20, "pct": 18.1}, {"n": 40, "pct": 11.3}, {"n": 60, "pct": 10.1}, {"n": 80, "pct": 10.7}, {"n": 100, "pct": 9.1}, {"n": 120, "pct": 8.3}], "labeled": 120, "carried": 80}, {"video": 10, "unit": "10_20251022_Pluto1", "mouse": "Pluto", "date": "2025-10-22", "final": false, "plateau_n": 20, "plateau_px": 11.83, "zero": 18.13, "steps": [{"n": 20, "rmse": 11.83, "p90": 27.7, "fail": 2, "conf": 72}], "subsets": [], "jump": [], "labeled": 20, "carried": null}], "area": [{"video": "0 (mouse A)", "e3": 6.5, "e4": 2.2, "anchored": false}, {"video": "1 (10-31)", "e3": 6.7, "e4": 6.2, "anchored": false}, {"video": "2 (10-31)", "e3": 3.1, "e4": 4.4, "anchored": false}, {"video": "3 (10-31)", "e3": 12.8, "e4": 3.2, "anchored": false}, {"video": "4 (10-30, poor)", "e3": 16.9, "e4": 13.5, "anchored": false}, {"video": "5 (10-29)", "e3": 2.5, "e4": 1.9, "anchored": true}, {"video": "6 (10-28)", "e3": 9.9, "e4": 1.6, "anchored": true}, {"video": "7 (10-27)", "e3": 3.3, "e4": 0.2, "anchored": true}], "blink3": {"closed": 16, "open": 687, "auc": {"min_conf": 1.0, "open_rel": 0.94, "centre_off": 0.92, "lid_rel": 0.9, "aspect": 0.36}, "hit": 1.0, "false_alarm": 0.55}, "coupling": [0.69, 0.94], "built": "2026-10-01", "label_px": {"pupil_top": [66.7, 44.4], "pupil_bottom": [66.2, 79.4], "pupil_left": [50.1, 60.1], "pupil_right": [81.1, 63.6], "eyelid_top": [67.6, 47.1], "eyelid_bottom": [65.9, 83.7], "eye_nasal_corner": [39.4, 51.3], "eye_temporal_corner": [90.4, 65.2]}};
 (function(){
   var root=document.documentElement, L='zh';
   try{var s=localStorage.getItem('report-lang'); if(s==='en'||s==='zh') L=s;}catch(e){}

diff --git a/report/template.html b/report/template.html
@@ -331,7 +331,7 @@ footer{border-top:1px solid var(--rule);padding-top:18px;font-family:var(--mono)
 <section>
   <div class="sec-head"><div class="kicker">07 · <span lang="zh">新视频泛化</span><span lang="en">new-video generalization</span></div>
   <h2><span lang="zh">换一只鼠，旧模型完全失效（185 px）；标 20 帧回到 14 px，标 80 帧到 10 px</span><span lang="en">On a new mouse the old model fails outright (185 px); 20 labels bring it to 14 px, 80 labels to 10 px</span></h2></div>
-  <div class="issues"><div class="issue"><b><span lang="zh">本节是旧标注标准下的第一次新视频实验</span><span lang="en">This section is the first new-video experiment, under the old label standard</span></b><span lang="zh">训练 = 676 张旧鼠标注 + Pluto 标注。新标准下的完整实验（10 个视频）见第 09 节。</span><span lang="en">Training = 676 old-mouse labels + Pluto labels. The full experiment under the new standard (10 videos) is section 09.</span></div></div>
+  <div class="issues"><div class="issue"><b><span lang="zh">本节是旧标注标准下的第一次新视频实验</span><span lang="en">This section is the first new-video experiment, under the old label standard</span></b><span lang="zh">训练 = 676 张旧鼠标注 + Pluto 标注。新标准下的完整实验见第 09 节。</span><span lang="en">Training = 676 old-mouse labels + Pluto labels. The full experiment under the new standard is section 09.</span></div></div>
   <div class="grid2">
     <div class="panel"><h3><span lang="zh">头 20 帧解决了绝大部分问题，之后每 20 帧的收益递减</span><span lang="en">The first 20 labels do most of the work; every further 20 adds less</span></h3>
       <div class="chart" id="c-scale"></div>

diff --git a/README.md b/README.md
@@ -8,7 +8,7 @@ how many human labels are needed, and how few frames must a person correct, befo
 Zhiheng Li (University of Minnesota), with Kaiwen Sheng (Stanford). Raw videos, frames, labels, model weights and
 per-frame predictions stay local; git carries code, documentation and audited aggregate results.
 
-## Status (last updated 2026-10-01 21:30 CDT)
+## Status (last updated 2026-10-01 22:55 CDT)
 
 | what | state |
 |---|---|
@@ -23,7 +23,7 @@ per-frame predictions stay local; git carries code, documentation and audited ag
 | Finished | **video 8** (Pluto, 2025-10-24, v2 line): test set relabeled under v2 and frozen; 0 labels (video-6 model 711) = 27.46 px, 20 labels = 25.34 px, 40 labels = 30.03 px (p90 ~50, 12-14% of frames > 50 px - a hard day, 3 days after video 7); 60 labels = 33.77 px: finished at **20 labels, 25.34 px** (rule fired at 60; 12-16% of frames > 50 px at every step - this day is hard). |
 | Finished | **video 9** (Pluto, 2025-10-23, v2 line): test50 / val20 / batch01 labeled from model-711 pre-labels; 0 labels (model 711) = 23.41 px, 20 labels = 10.39 px, 40 labels = 8.55 px, 60 labels = 8.67 px (p90 14.8; no gain on the median), 80 labels = 8.20 px (p90 14.8; 4.1% better than 8.55), 100 labels = 9.39 px (p90 15.5), 120 labels = 8.63 px (p90 15.8): the plateau rule fired at 120 (two steps without a gain on 8.20), finished at **80 labels, 8.20 px** (user decision 2026-10-01). Cross-video curves now also show the 5 / 10-label subset models (open markers) |
 | Blink / area analysis | per-video time series in `<video>/results/blink_area_analysis/`; across videos (`v2_new_pupil_top_video_scaling/results/blink_area_consistency.png`): 4-point area better on 7 of 8 test sets; lowest pupil confidence < ~0.2 separates all 16 human closed-eye frames (the production 0.6 cut flags ~half of open frames); area correlates with eye opening in every video |
-| In progress | **video 10** (Pluto, 2025-10-22, the last Pluto video of the sequence): test50 / val20 / batch01 pre-labeled with the video-9 80-label model (1014) and corrected by the labeler (test50: 234 of 400 points moved), test set frozen; 0 labels (model 1014) = 18.13 px (p90 32.0, 8% of frames > 50 px); step 1 (20 labels + 500 carried labels) training |
+| In progress | **video 10** (Pluto, 2025-10-22, the last Pluto video of the sequence): test50 / val20 / batch01 pre-labeled with the video-9 80-label model (1014) and corrected by the labeler (test50: 234 of 400 points moved), test set frozen; 0 labels (model 1014) = 18.13 px (p90 32.0, 8% of frames > 50 px), 20 labels = 11.83 px (p90 27.7, 2% > 50 px); batch02 being selected |
 | Next | Terra (mouse C), units 11-18, one recording day each, newest first |
 
 ## Main results so far (era 3, `v2_new_pupil_top_video_scaling/`)
@@ -42,7 +42,7 @@ Labels needed per video (plateau = two consecutive 20-label steps that improve t
 | 7 | Pluto, 2025-10-27 | 400 | 5.36 / 5.86 / 5.84 px (v2) | 0 labels, 5.36 px (rule fired at 40) |
 | 8 | Pluto, 2025-10-24 | 400 | 27.46 / 25.34 / 30.03 / 33.77 px (v2) | 20 labels, 25.3 px (rule fired at 60) |
 | 9 | Pluto, 2025-10-23 | 420 | 23.41 / 10.39 / 8.55 / 8.67 / 8.20 / 9.39 px, 120 labels: 8.63 px (v2) | 80 labels, 8.2 px (rule fired at 120) |
-| 10 | Pluto, 2025-10-22 | 500 | 18.13 px (v2, in progress) | – |
+| 10 | Pluto, 2025-10-22 | 500 | 18.13 / 11.83 px (v2, in progress) | – |
 
 What the numbers say:
 

diff --git a/v2_new_pupil_top_video_scaling/results/README.md b/v2_new_pupil_top_video_scaling/results/README.md
@@ -22,7 +22,7 @@ snapshot with the best validation mAP after the first learning-rate drop (epochs
 | 7 `7_20251027_Pluto_spont1` | mouse B, 19.9 min, 2025-10-27 | 400 (videos 0-3 + 40 of video 4 + 20 of video 5 + 20 of video 6) | convention v2: 5.36 / 5.86 / 5.84 | **0 labels** (rule fired at 40; user decision 2026-09-29) | 5.36 px |
 | 8 `8_20251024_Pluto_spont1` | mouse B, 19.9 min, 2025-10-24 | 400 (videos 0-3 + 40 of video 4 + 20 of video 5 + 20 of video 6) | convention v2: 27.46 / 25.34 / 30.03 / 33.77 | **20 labels** (rule fired at 60; user decision 2026-09-30) | 25.34 px |
 | 9 `9_20251023_Pluto1` | mouse B, 19.9 min, 2025-10-23 | 420 (videos 0-3 + 40 of video 4 + 20 each of videos 5, 6, 8) | convention v2: 23.41 / 10.39 / 8.55 / 8.67 / 8.20 / 9.39 / 8.63 (120 labels) | **80 labels** (rule fired at 120; user decision 2026-10-01) | 8.20 px |
-| 10 `10_20251022_Pluto1` | mouse B, 19.9 min, 2025-10-22 | 500 (videos 0-3 + 40 of video 4 + 20 each of videos 5, 6, 8 + 80 of video 9) | convention v2: 18.13 | in progress (step 1 training) | – |
+| 10 `10_20251022_Pluto1` | mouse B, 19.9 min, 2025-10-22 | 500 (videos 0-3 + 40 of video 4 + 20 each of videos 5, 6, 8 + 80 of video 9) | convention v2: 18.13 / 11.83 | in progress (step 1 improved the 0-label score by 35%; step 2 next) | – |
 
 `labels_to_plateau.png` / `labels_to_plateau.csv` (2026-09-30): the plateau point of every video in the sequence as one figure - labels needed (left) and the error at the plateau vs the 0-label error (right); `scripts/plot_labels_to_plateau.py`. The csv is the table above in machine-readable form and is updated when a video finishes.
 

diff --git a/v2_new_pupil_top_video_scaling/10_20251022_Pluto1/results/README.md b/v2_new_pupil_top_video_scaling/10_20251022_Pluto1/results/README.md
@@ -10,3 +10,4 @@ batch01: 73 of 160), then the test set was frozen. Training set of every step = 
 | labels of this video | median | p90 | frames > 50 px | keypoints conf >= 0.6 | pool frames flagged by the jump rule |
 |---|---|---|---|---|---|
 | 0 (video-9 80-label model 1014, applied unchanged) | 18.13 px | 32.0 | 8% | 60% | – |
+| 20 (shuffle 1111) | 11.83 px | 27.7 | 2% | 72% | pending |
